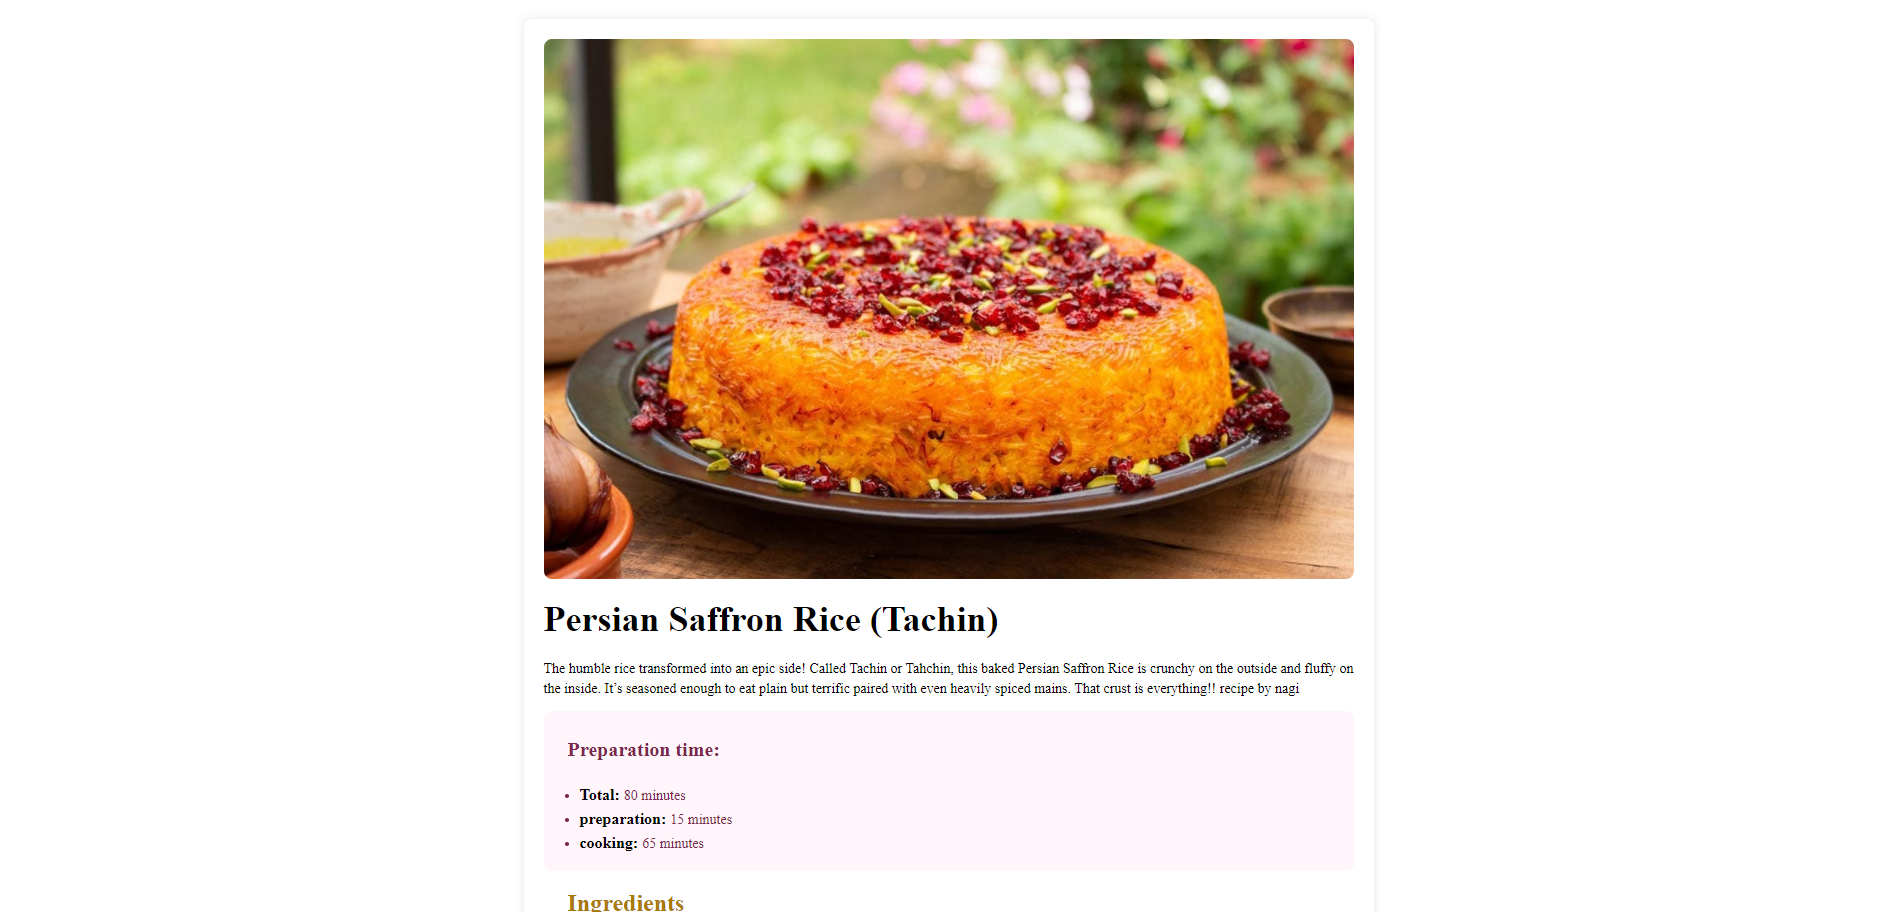
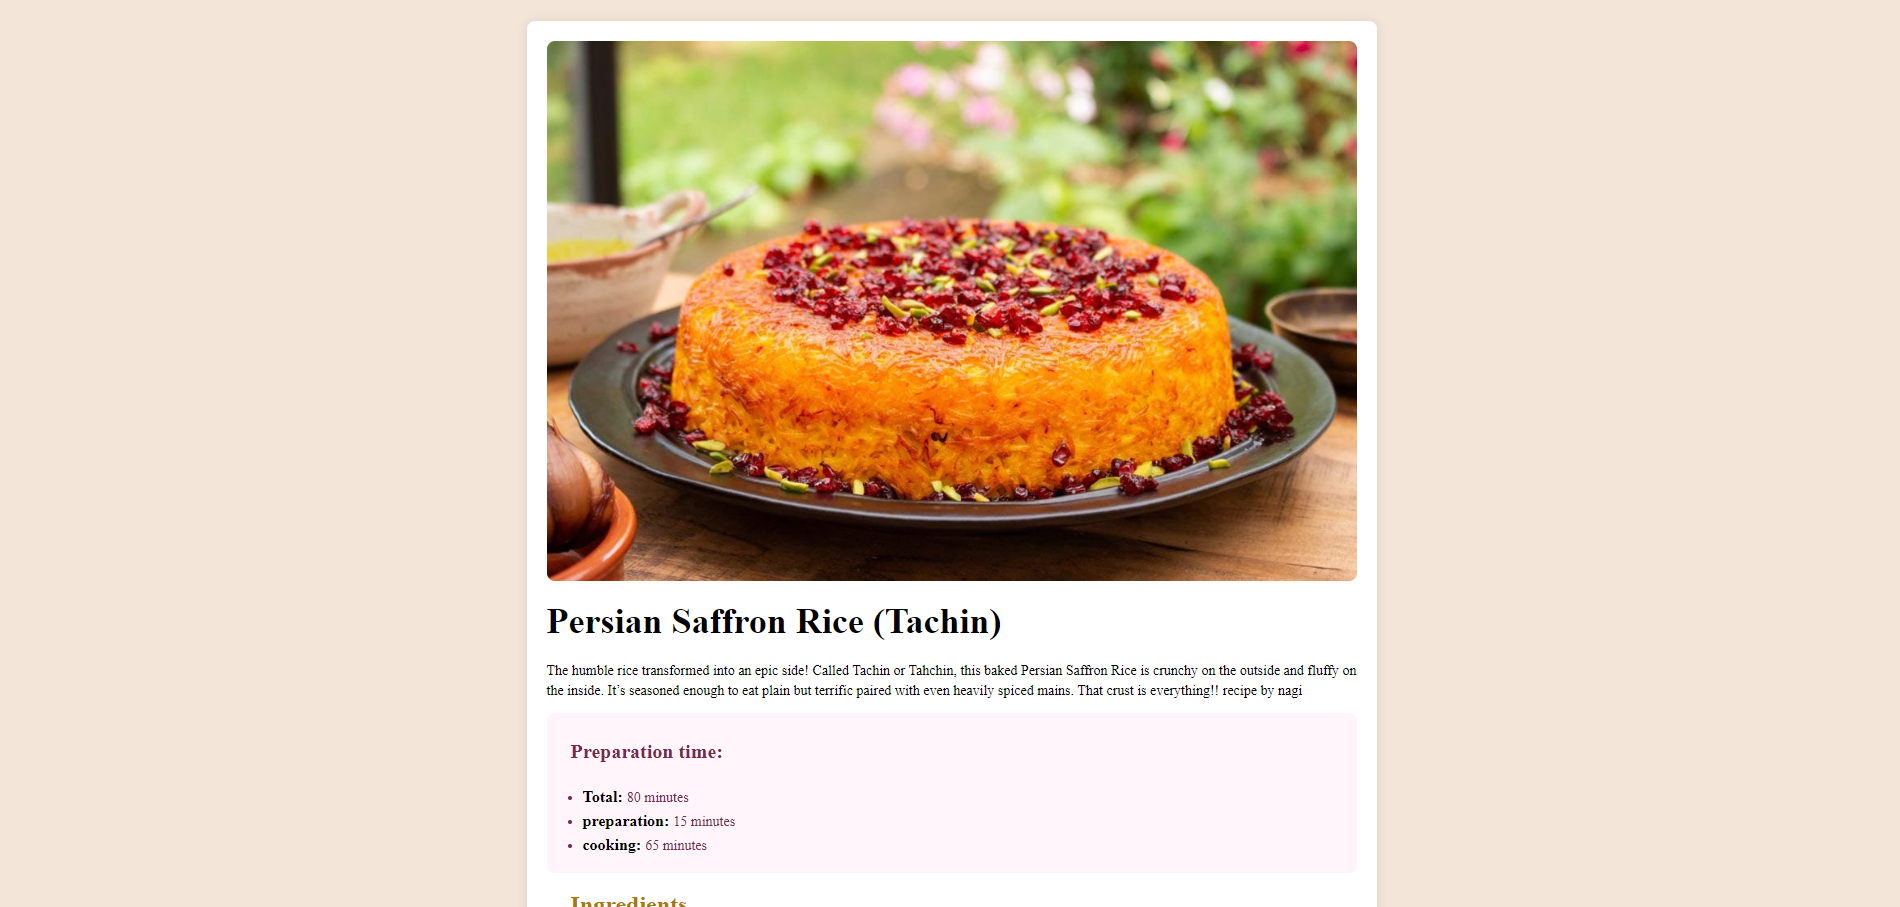
change the background color

diff --git a/src/input.css b/src/input.css
@@ -2,7 +2,7 @@
 @tailwind components;
 @tailwind utilities;
 .main {
-  @apply shadow-3xl w-[95%]   sm:w-[80%] max-w-[850px] bg-white mx-auto mt-6 p-2 sm:p-5 rounded-lg font-times mb-2;
+  @apply shadow-3xl w-[95%] sm:w-[80%] max-w-[850px] bg-white mx-auto mt-6 p-2 sm:p-5 rounded-lg font-times mb-2;
 }
 .image {
   @apply rounded-lg;

diff --git a/docs/index.html b/docs/index.html
@@ -6,7 +6,7 @@
     <title>Document</title>
     <link rel="stylesheet" href="./styles.css" />
   </head>
-  <body>
+  <body class="bg-[#F3E5D8]">
     <main class="main">
       <img class="image" src="./assets/imgs/tahchin.jpg" alt="tahchin pic" />
       <h1 class="title">Persian Saffron Rice (Tachin)</h1>

diff --git a/docs/styles.css b/docs/styles.css
@@ -575,6 +575,11 @@ video {
   border-color: rgb(209 213 219 / var(--tw-border-opacity));
 }
 
+.bg-\[\#F3E5D8\] {
+  --tw-bg-opacity: 1;
+  background-color: rgb(243 229 216 / var(--tw-bg-opacity));
+}
+
 .py-2 {
   padding-top: 0.5rem;
   padding-bottom: 0.5rem;
